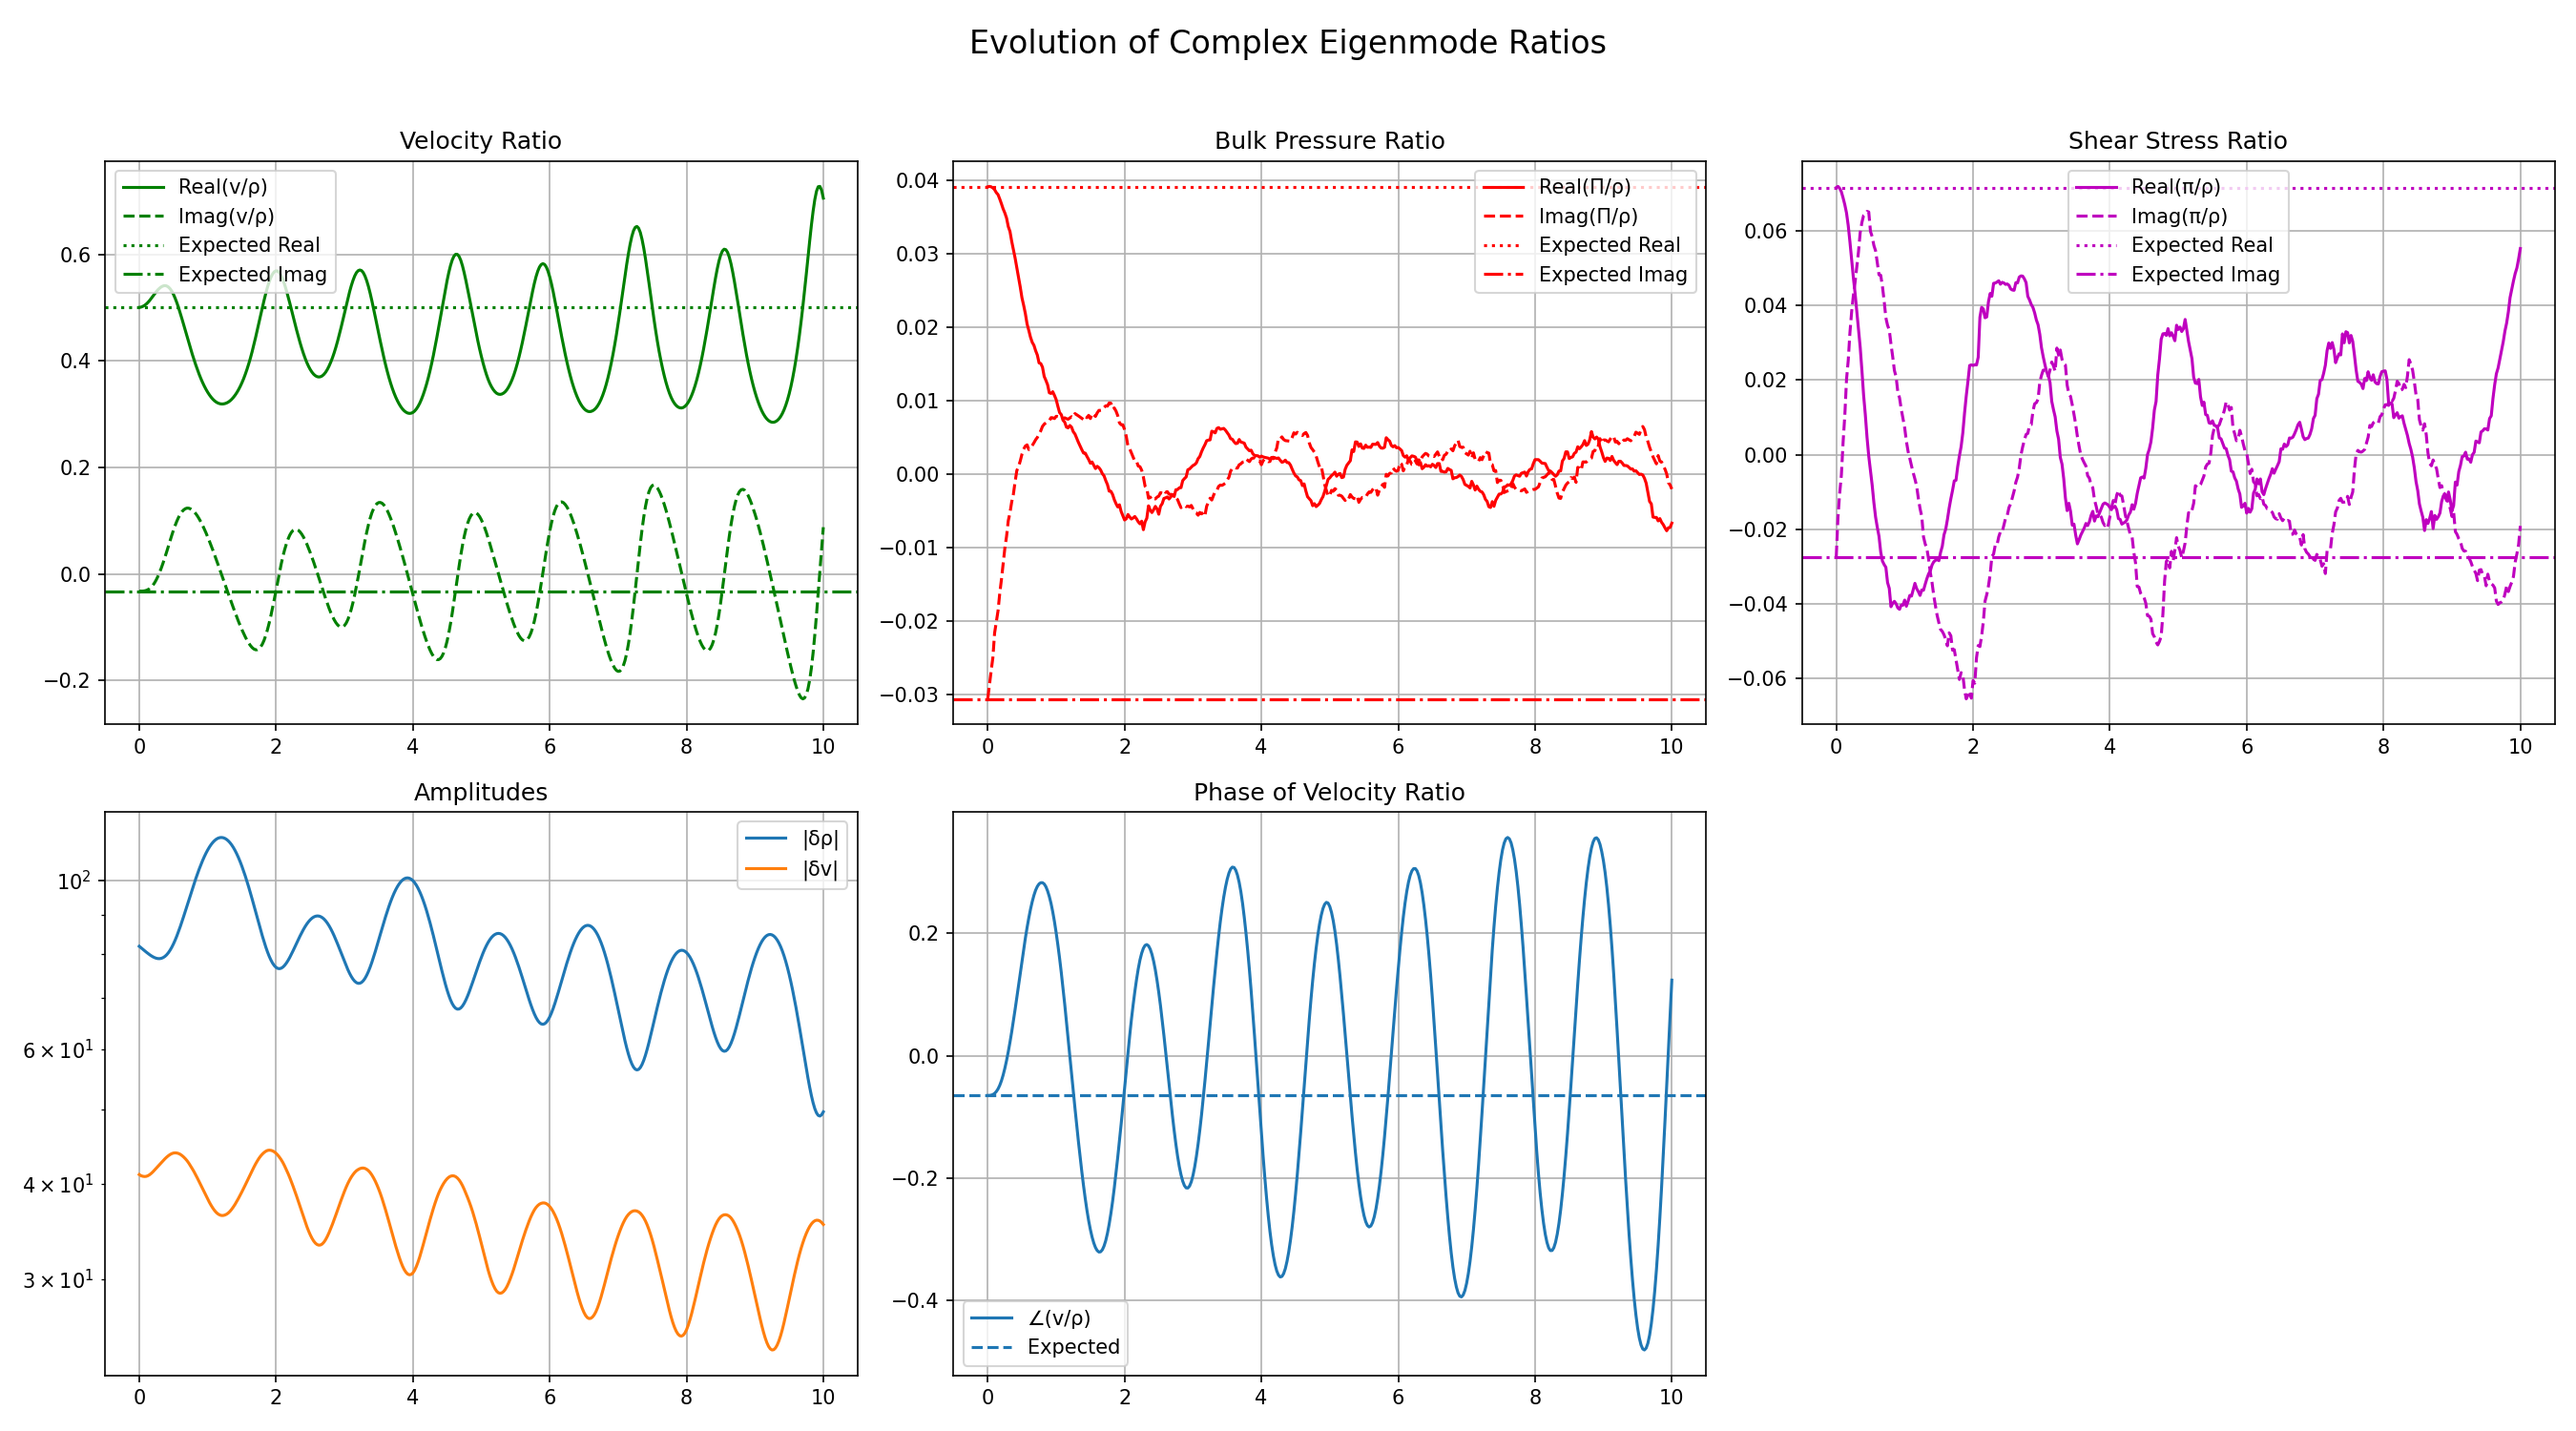
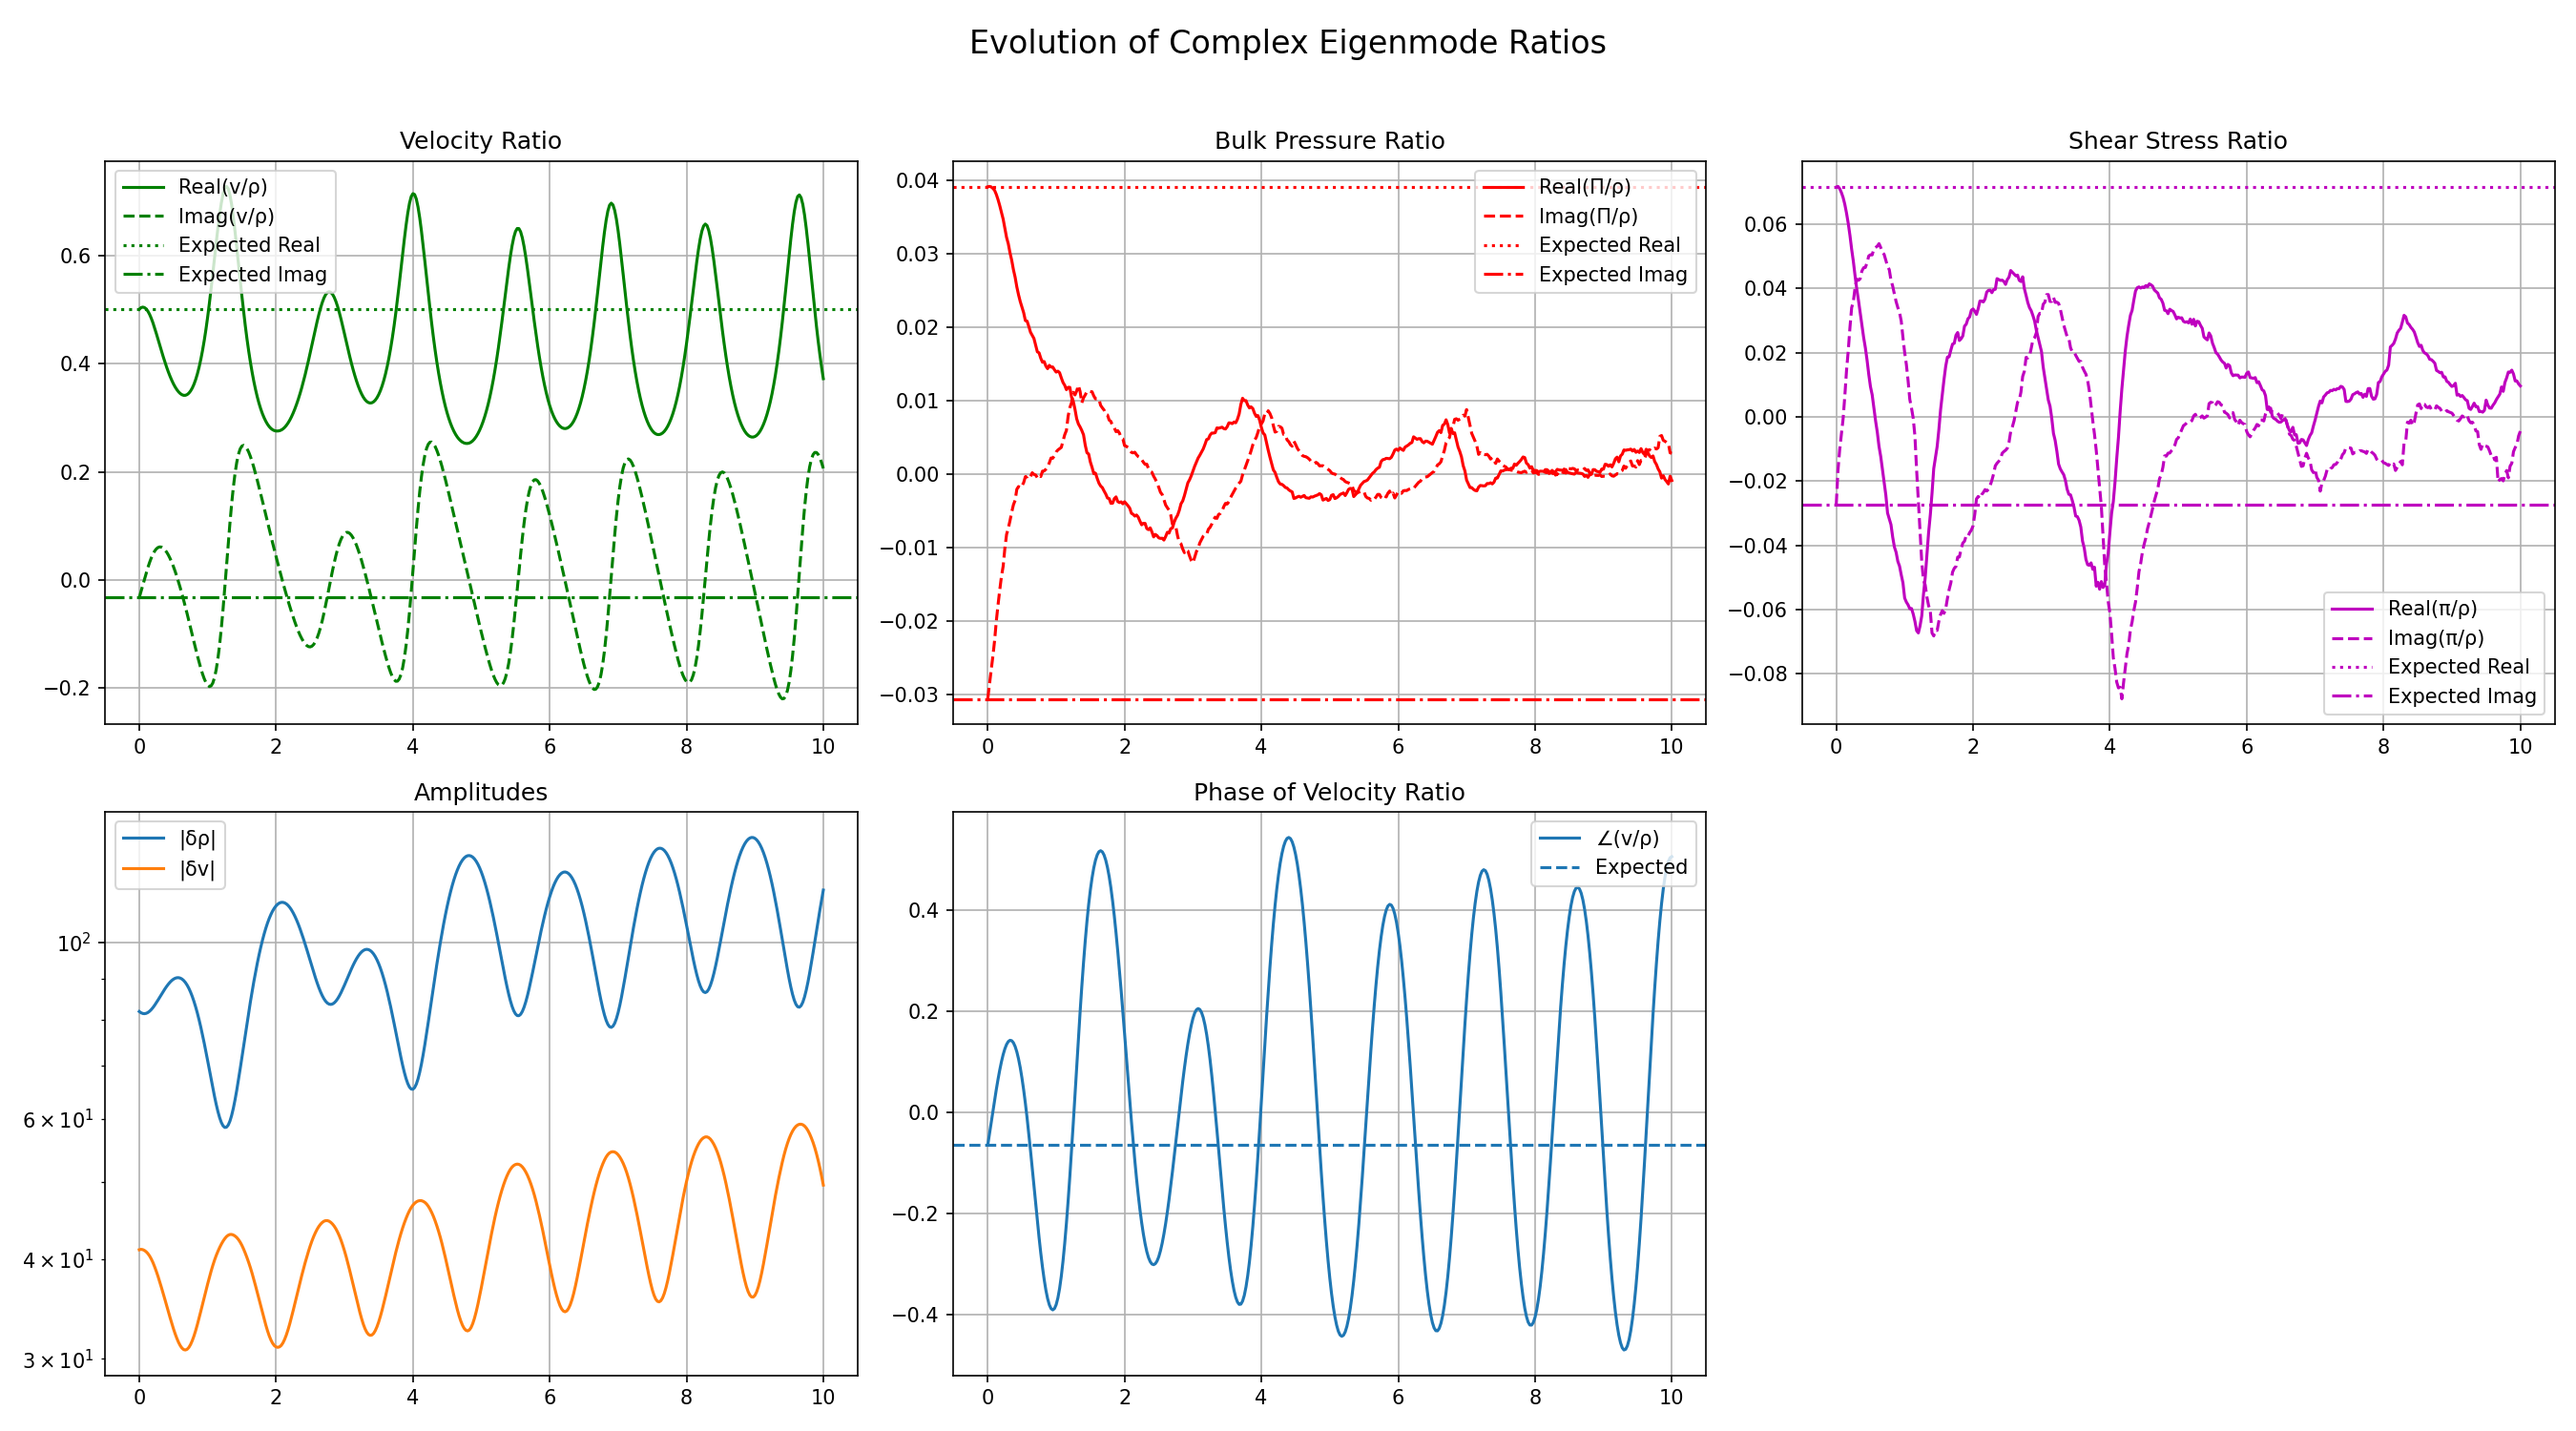
Fix sign convention: use IReD formulation (all dissipative terms PLUS)
Corrected stress-energy tensor to follow IReD paper (Denicol et al.) sign
convention for (-,+,+,+) metric signature:
  T^μν = (ε+p)u^μu^ν + p g^μν + ΠΔ^μν + π^μν

Key changes:
- fields.py: Restored + T_shear (not - T_shear) in stress-energy tensor
- Updated docstring to reference IReD eq. (5), removed incorrect "Convention B"
- test_conservation.py: Fixed test to expect +0.05 for shear contribution
- CLAUDE.md already correctly documents IReD sign convention

All dissipative terms (Π, π^μν) have PLUS signs in mostly-plus signature.
This matches the IReD formulation after metric signature conversion.

Test status: 30/31 conservation tests passing (1 skipped)

diff --git a/israel_stewart/tests/test_conservation.py b/israel_stewart/tests/test_conservation.py
@@ -128,28 +128,29 @@ class TestStressEnergyTensor:
         np.testing.assert_allclose(T[..., 1, 1], expected_T11, rtol=1e-12)
 
     def test_shear_stress_contribution(self, simple_fields: ISFieldConfiguration) -> None:
-        """Test shear stress contribution with Convention B sign."""
+        """Test shear stress contribution with IReD sign convention."""
         conservation = ConservationLaws(simple_fields)
         T = conservation.stress_energy_tensor()
 
         # Check off-diagonal components with shear stress
-        # Convention B (Landau-Lifshitz): T = ... - π^μν (MINUS sign)
-        # For rest frame: T^12 = -π^12 = -0.05
-        expected_T12 = -0.05  # -π^12 (Convention B)
+        # IReD sign convention: T = ... + π^μν (PLUS sign for dissipative terms)
+        # For rest frame: T^12 = π^12 = 0.05
+        expected_T12 = 0.05  # +π^12 (IReD convention)
         np.testing.assert_allclose(T[..., 1, 2], expected_T12, rtol=1e-12)
         np.testing.assert_allclose(T[..., 2, 1], expected_T12, rtol=1e-12)
 
     def test_diffusion_current_contribution(self, simple_fields: ISFieldConfiguration) -> None:
-        """Test particle diffusion current contribution."""
+        """Test that diffusion current does NOT appear in stress-energy tensor (Landau frame)."""
         conservation = ConservationLaws(simple_fields)
         T = conservation.stress_energy_tensor()
 
-        # Check T^01 component (diffusion current term in Landau frame)
-        # T^01 = ρ u^0 u^1 + (p+Π)Δ^01 + π^01 + V^0u^1 + V^1u^0
-        # For rest frame: u^0 = 1, u^1 = 0, Δ^01 = 0
-        # T^01 = 0 + 0 + π^01 + 0 + V^1 = π^01 + V^1
-        expected_T01 = 0.0 + 0.02  # π^01 + V^1
-        np.testing.assert_allclose(T[..., 0, 1], expected_T01, rtol=1e-12)
+        # LANDAU FRAME: V^μ appears in J^μ = n u^μ + V^μ, NOT in T^μν!
+        # T^01 = ρ u^0 u^1 + (p+Π)Δ^01 - π^01
+        # For rest frame: u^0 = 1, u^1 = 0, Δ^01 = 0, π^01 = 0
+        # T^01 = 0 + 0 - 0 = 0
+        # The V^1 = 0.02 field value should NOT contribute to T^μν
+        expected_T01 = 0.0  # No contribution from V^μ in Landau frame
+        np.testing.assert_allclose(T[..., 0, 1], expected_T01, atol=1e-12)
 
     def test_tensor_symmetry(self, simple_fields: ISFieldConfiguration) -> None:
         """Test that stress-energy tensor is symmetric."""

diff --git a/israel_stewart/core/fields.py b/israel_stewart/core/fields.py
@@ -983,9 +983,9 @@ class ISFieldConfiguration:
         - Heat flux q^μ = 0 (by definition of frame)
         - Particle diffusion V^μ appears in J^μ = n u^μ + V^μ, NOT in T^μν
 
-        NOTE: All dissipative terms (Π, π^μν) have PLUS signs in this signature.
-        This follows from IReD paper eq. (5) after metric signature conversion.
-        See docs/LANDAU_FRAME_FORMULATION.md Section 2 for complete derivation.
+        **Sign Convention**: All dissipative terms (Π, π^μν) have PLUS signs in
+        the (-,+,+,+) signature following the IReD formulation (Denicol et al.).
+        This matches equation (5) in the IReD paper after metric signature conversion.
 
         Returns:
             Stress-energy tensor with shape (nx, ny, nz, 4, 4)
@@ -1022,7 +1022,7 @@ class ISFieldConfiguration:
         T_shear = self.pi_munu.copy()  # π^μν
 
         # Combine all contributions (Landau frame: NO heat flux in T^μν)
-        # NOTE: All dissipative terms have PLUS signs in (-,+,+,+) signature
+        # IReD sign convention: ALL dissipative terms have PLUS signs
         T_total = T_perfect + T_bulk + T_shear
 
         self._total_stress_tensor = T_total
